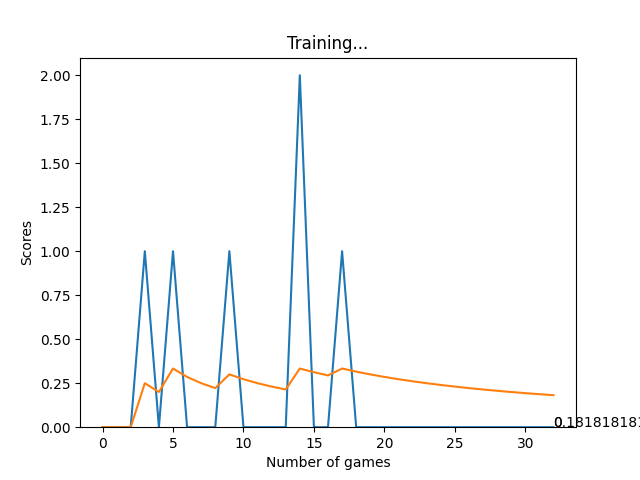
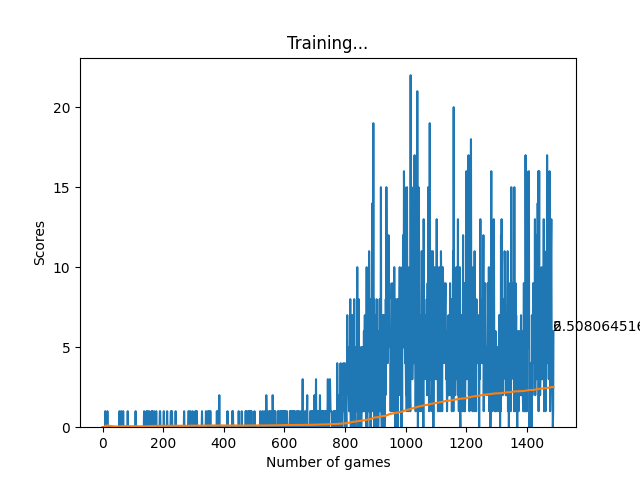
model is updated.

diff --git a/src/snakai/agent.py b/src/snakai/agent.py
@@ -5,6 +5,7 @@ from typing import final
 
 import numpy as np
 import torch
+from sympy.integrals.rationaltools import ratint
 
 from .utils import plot
 from .game import SnakeGameAI, Direction, Point
@@ -21,8 +22,9 @@ LR = 0.001
 class Agent:
     def __init__(self):
         self.n_games = 0
+        self.max_games = 250
         self.epsilon = 1  # randomness
-        self.greedy = 0.85
+        self.greedy = 0.90
         self.gamma = 0.9  # discount rate
         self.memory = deque(maxlen=MAX_MEMORY)  # popleft()
 
@@ -104,9 +106,14 @@ class Agent:
 
     def get_action(self, state):
         # random moves: tradeoff exploration / exploitation
-        self.epsilon = 1 - (self.n_games / 500) * self.greedy
+        # if self.n_games >= self.max_games:
+        #     ratio = 1.0
+        # else:
+        #     ratio = (self.n_games / self.max_games)
+        ratio = len(self.memory) / MAX_MEMORY
+        self.epsilon = 1 - ratio * self.greedy
         final_move = [0, 0, 0]
-        if random.uniform(0, 1) < self.epsilon:
+        if  random.uniform(0, 1) < self.epsilon:
             move_index = random.randint(0, 2)
             final_move[move_index] = 1
         else:

diff --git a/src/snakai/model.py b/src/snakai/model.py
@@ -24,8 +24,8 @@ class LinearQNet(nn.Module):
     def __init__(self, input_size, hidden_size, output_size):
         super().__init__()
         self.linear1 = nn.Linear(input_size, hidden_size)
-        self.linear2 = nn.Linear(hidden_size, hidden_size)
-        self.linear3 = nn.Linear(hidden_size, output_size)
+        # self.linear2 = nn.Linear(hidden_size, hidden_size)
+        self.linear2 = nn.Linear(hidden_size, output_size)
 
     def forward(self, x):
         """
@@ -35,9 +35,9 @@ class LinearQNet(nn.Module):
         """
         x = self.linear1(x)
         x = F.relu(x)
+        # x = self.linear2(x)
+        # x = F.relu(x)
         x = self.linear2(x)
-        x = F.relu(x)
-        x = self.linear3(x)
         return x
 
     def save(self, file_name='model.pth'):
